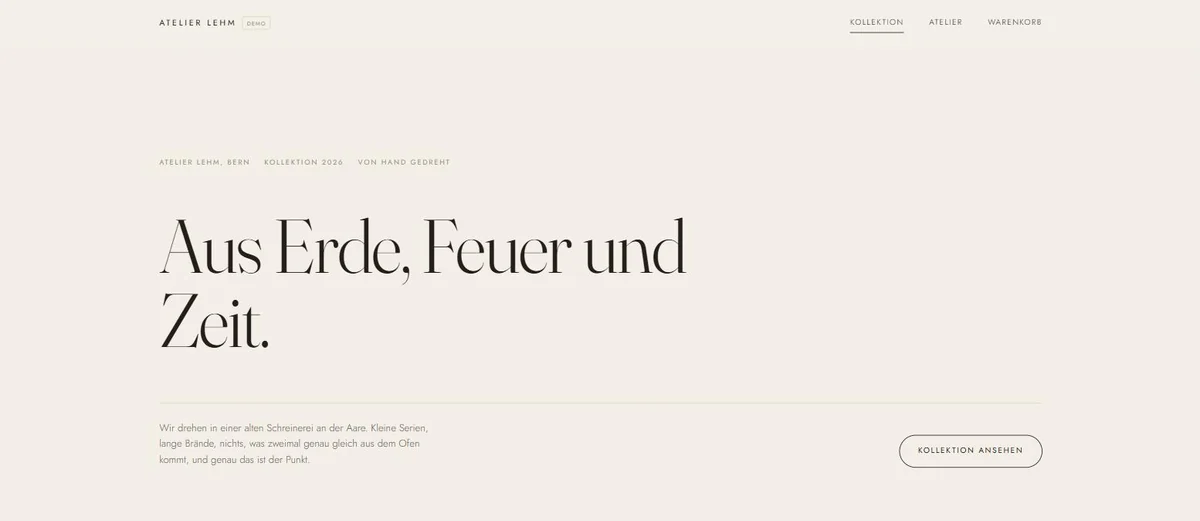
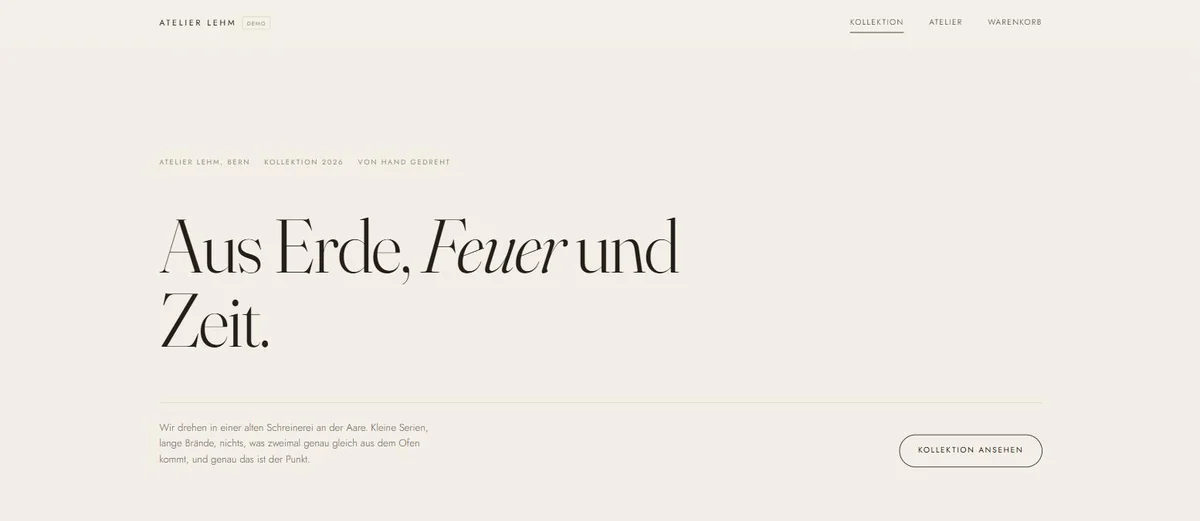
Put the italic word back in the pottery headline
Javi's call: "Aus Erde, Feuer und Zeit." keeps its italic Feuer, word
for word as it was, together with the display em rule and its Fraunces
axes. The rest of the previous pass stands, so the device now belongs
to one demo instead of being the house style of all three.

The gallery keeps italics for work titles only, marked up as cite, and
the language school keeps none. Pottery card preview retaken, it was
showing the word upright. Both context documents say the italic is
deliberate, so it does not get tidied away again.

diff --git a/templates/keramik-ecommerce/index.html b/templates/keramik-ecommerce/index.html
@@ -40,7 +40,7 @@
         <span>Kollektion 2026</span>
         <span>Von Hand gedreht</span>
       </p>
-      <h1 class="display opener__title reveal">Aus Erde, Feuer und Zeit.</h1>
+      <h1 class="display opener__title reveal">Aus Erde, <em>Feuer</em> und Zeit.</h1>
       <div class="opener__foot reveal">
         <p>
           Wir drehen in einer alten Schreinerei an der Aare. Kleine Serien, lange Brände,

diff --git a/templates/keramik-ecommerce/css/style.css b/templates/keramik-ecommerce/css/style.css
@@ -110,6 +110,13 @@ a {
   letter-spacing: -0.02em;
 }
 
+/* Das kursive Wort im Auftakt: Javis Entscheidung vom 2026-09-21, hier
+   und nur hier. Die Achsen weichen die Fraunces auf, damit das Wort
+   wärmer wirkt statt nur schräg. */
+.display em {
+  font-style: italic;
+  font-variation-settings: 'SOFT' 40, 'WONK' 1;
+}
 
 .serif-lead {
   font-family: var(--serif);

diff --git a/PROJECT-STATUS.md b/PROJECT-STATUS.md
@@ -477,7 +477,8 @@ Bezieht sich auf `SPEC.md` (Portfolio, Blog & Chatbot).
 
 - [x] **Die drei Demos klangen nach einem einzigen Schreiber, jetzt nicht mehr** (2026-09-21, von Javi gefunden).
   - **Der Befund:** In *jedem* Haupttitel der drei Demos stand genau ein Wort kursiv (*Feuer*, *hier*, *länger*). Dazu kamen drei weitere Formeln, die sich quer durch alle drei zogen: jeder grosse Titel ein kurzer, lakonischer Satz mit Punkt; dreimal dieselbe Bauform *"[Zahl] + Substantiv, lakonischer Nachsatz"* (*"Neun Brände im Jahr, ..."*, *"Vier Schritte, keine Überraschungen."*, *"Drei Minuten vom Bahnhof Bern."*); und **Keramik und Galerie öffneten mit derselben Komponente**, einer Dreier-Augenbraue mit Trennpunkten (Ort, Saison, Arbeitsweise) über einem Riesentitel. Die Galerie war auf dem Gerüst der Keramikdemo gebaut, und man sah es.
-  - **Kursive:** aus allen drei Titeln raus, die `em`-Regeln in `keramik-ecommerce/css/style.css` und `deutsche-schule/css/style.css` als tot entfernt. In der Galerie kommt sie an einer Stelle zurück, wo sie etwas bedeutet: **Werktitel stehen kursiv, ausgezeichnet als `<cite>`**, auf der Werkseite und in der Blätterleiste, so wie es jeder Katalog macht. Im Raster bleibt der Titel aufrecht, dort gehört er zu seinem eigenen Bild und zitiert nichts.
+  - **Kursive:** zuerst aus allen drei Titeln raus, die `em`-Regeln in `keramik-ecommerce/css/style.css` und `deutsche-schule/css/style.css` als tot entfernt. In der Galerie kommt sie an einer Stelle zurück, wo sie etwas bedeutet: **Werktitel stehen kursiv, ausgezeichnet als `<cite>`**, auf der Werkseite und in der Blätterleiste, so wie es jeder Katalog macht. Im Raster bleibt der Titel aufrecht, dort gehört er zu seinem eigenen Bild und zitiert nichts.
+  - **Nachtrag am selben Tag, auf Javis Wunsch: `Aus Erde, <em>Feuer</em> und Zeit.` bekommt die Kursive zurück**, wortgleich wie vorher, samt der Regel `.display em` mit den Fraunces-Achsen (`SOFT 40`, `WONK 1`). Damit trägt das Mittel genau eine Demo statt aller drei, und das war der Punkt. Das Vorschaubild der Keramikkarte wurde dafür erneut aufgenommen. **Nicht wieder entfernen.**
   - **Eine Stimme pro Demo**, die Zuordnung steht in `.agents/product-marketing.md`: *Atelier Lehm* spricht von Stoffen und Arbeitsschritten, ohne Anrede; *Sprachwerk Bern* spricht die Lernende direkt an (du, Verben, vorher und nachher); *Halle Neun* spricht über den Raum, in der Sie-Form.
   - **Neue Titel:** Keramik behält `Aus Erde, Feuer und Zeit.` (der Dreiklang trug die Zeile ohnehin, die Kursive war Dekoration). Schule: `Deutsch lernen für das Leben hier.` → `Am Anfang nickst du nur. Nach dem Kurs redest du mit.`, dazu `Vier Schritte, keine Überraschungen.` → `Du weisst vorher, was auf dich zukommt.` und `Drei Minuten vom Bahnhof Bern.` → `Vom Bahnhof läufst du drei Minuten.` Galerie: `Sehen dauert länger, als man denkt.` → `Hier hängt nichts, was man im Vorbeigehen sieht.`
   - **Von der Zahlformel bleibt genau eine übrig**, `Neun Brände im Jahr, mehr gibt der Ofen nicht her.`, weil sie im Keramikatelier eine echte Angabe ist und kein Stilmittel.
@@ -552,7 +553,7 @@ _Aktuell keine offenen Blocker für RailTrack Manager — Screenshots sind gelie
 - **Ein erfundener Shop sieht nicht aus, als nähme er Geld.** Der Warenkorb ist echt (`localStorage`), die Kasse offen ein Modell: Kartenfelder gesperrt, und die Seite schreibt es hin. Bei der Sprachschule dasselbe Muster — der Login prüft offen nichts, und vor dem Buchen steht eine Bestätigung, dass kein Termin zustande kommt. Gilt für jedes künftige Demo.
 - **Erfundene Namen in Demos sollen keine reale Marke anklingen lassen.** Die Musterteilnehmerin in `Sprachwerk Bern` hiess zuerst Ferrari und heisst jetzt Rossi (2026-09-16). Gilt für Personen, Betriebe und Produkte in allen Demos.
 - **Der Film im Raster ist ein Muster, kein Einzelfall.** Keramik und Galerie haben beide eine bewegte Zelle mitten im Raster, im selben Seitenverhältnis wie ihre Nachbarn, stumm, ohne Bedienelemente, nur im Sichtfeld laufend und bei `prefers-reduced-motion` stillstehend. Sie führt wie jede andere Zelle auf die dazugehörige Detailseite. **Neu seit der Galerie:** das Standbild der Arbeit liegt als `poster` darunter, sonst klafft an der Stelle ein Loch, bis der Film geladen ist. Wer das nächste Demo baut, übernimmt das mit.
-- **Jede Demo hat ihre eigene Stimme, und die wird vor der Copy entschieden.** Nicht dreimal dasselbe Stilmittel: nicht dreimal ein kursives Wort im Titel, nicht dreimal dieselbe Satzbauform, nicht zweimal dieselbe Auftaktkomponente. Die Zuordnung (Keramik: Stoffe und Arbeitsschritte, keine Anrede. Schule: du, Verben, vorher und nachher. Galerie: über den Raum, in der Sie-Form) steht in `.agents/product-marketing.md`. Einmal passiert, siehe Erledigt. **Ein Mittel, das in allen drei Demos auftaucht, ist kein Mittel mehr, sondern ein Tick.**
+- **Jede Demo hat ihre eigene Stimme, und die wird vor der Copy entschieden.** Nicht dreimal dasselbe Stilmittel: nicht dreimal ein kursives Wort im Titel (**einmal schon: `Atelier Lehm` behält seines, Javis Entscheidung vom 2026-09-21**), nicht dreimal dieselbe Satzbauform, nicht zweimal dieselbe Auftaktkomponente. Die Zuordnung (Keramik: Stoffe und Arbeitsschritte, keine Anrede. Schule: du, Verben, vorher und nachher. Galerie: über den Raum, in der Sie-Form) steht in `.agents/product-marketing.md`. Einmal passiert, siehe Erledigt. **Ein Mittel, das in allen drei Demos auftaucht, ist kein Mittel mehr, sondern ein Tick.**
 - **Ein Preis steht in einem Demo an genau einer Stelle.** Bei `keramik-ecommerce` lesen Raster, Produktseite, Warenkorb und Kasse alle aus `js/catalog.js`. Muster für künftige Demos: die Daten in eine Datei, die Seiten lesen daraus.
 - **Demobilder: WebP in zwei Breiten, Namen in kebab-case, Originale nicht im Repo.** Die JPEG-Quellen lagen zuerst mit, waren von nichts verlinkt und sind wieder raus (18 MB → 5 MB in `templates/`). Wer ein neues Demo baut, wandelt die Bilder und behält die Originale ausserhalb des Repos.
 

diff --git a/.agents/product-marketing.md b/.agents/product-marketing.md
@@ -533,9 +533,13 @@ one writer with three logos. The assignment now:
 | Sprachwerk Bern | practical, encouraging, close to the learner | verbs and before/after, the reader is in the sentence | *du* |
 | Halle Neun | dry, institutional, about the room | statements with a subordinate clause; one invitation | *Sie* |
 
-**Italics are now reserved for one job**: in the gallery, work titles are set in italic because that is
-how catalogues set them, marked up as `<cite>`. Nowhere else in any demo. A device that appears in all
-three demos is not a device, it is a tic.
+**Italics now appear in exactly two places, and they mean different things.** In the gallery, work
+titles are set in italic because that is how catalogues set them, marked up as `<cite>`. In `Atelier
+Lehm`, the word *Feuer* stays italic in the opening headline: **Javi's call, 2026-09-21**, after the
+first pass had removed it everywhere. It is the one demo that keeps the device, which is the point
+that was being made, and the Fraunces axes (`SOFT 40`, `WONK 1`) make the word read warm rather than
+merely slanted. **Do not remove it again.** Nowhere else in any demo. A device that appears in all
+three demos is not a device, it is a tic; the same device in one of three is a signature.
 
 **The third demo is deliberately two hooks in one.** `Halle Neun` is written to be recognisable both
 to galleries and to photographers: the work is generic and unattributed, the studio has no named
@@ -639,6 +643,9 @@ person.
 
 ## Changelog
 *Newest first. One line per revision: what changed and why.*
+- v16 (2026-09-21) — **The italic word comes back in the pottery demo only**, on Javi's call: *Feuer*
+  in `Aus Erde, Feuer und Zeit.` The rest of v15 stands, so the device now marks one demo instead of
+  being the house style of all three.
 - v15 (2026-09-21) — **The three demos stopped sounding like one writer.** Javi found that every main
   headline across the demos used the same trick (one italicised word) and that the same sentence
   formulas recurred between them. Headlines rewritten so each demo has its own voice, recorded as a
